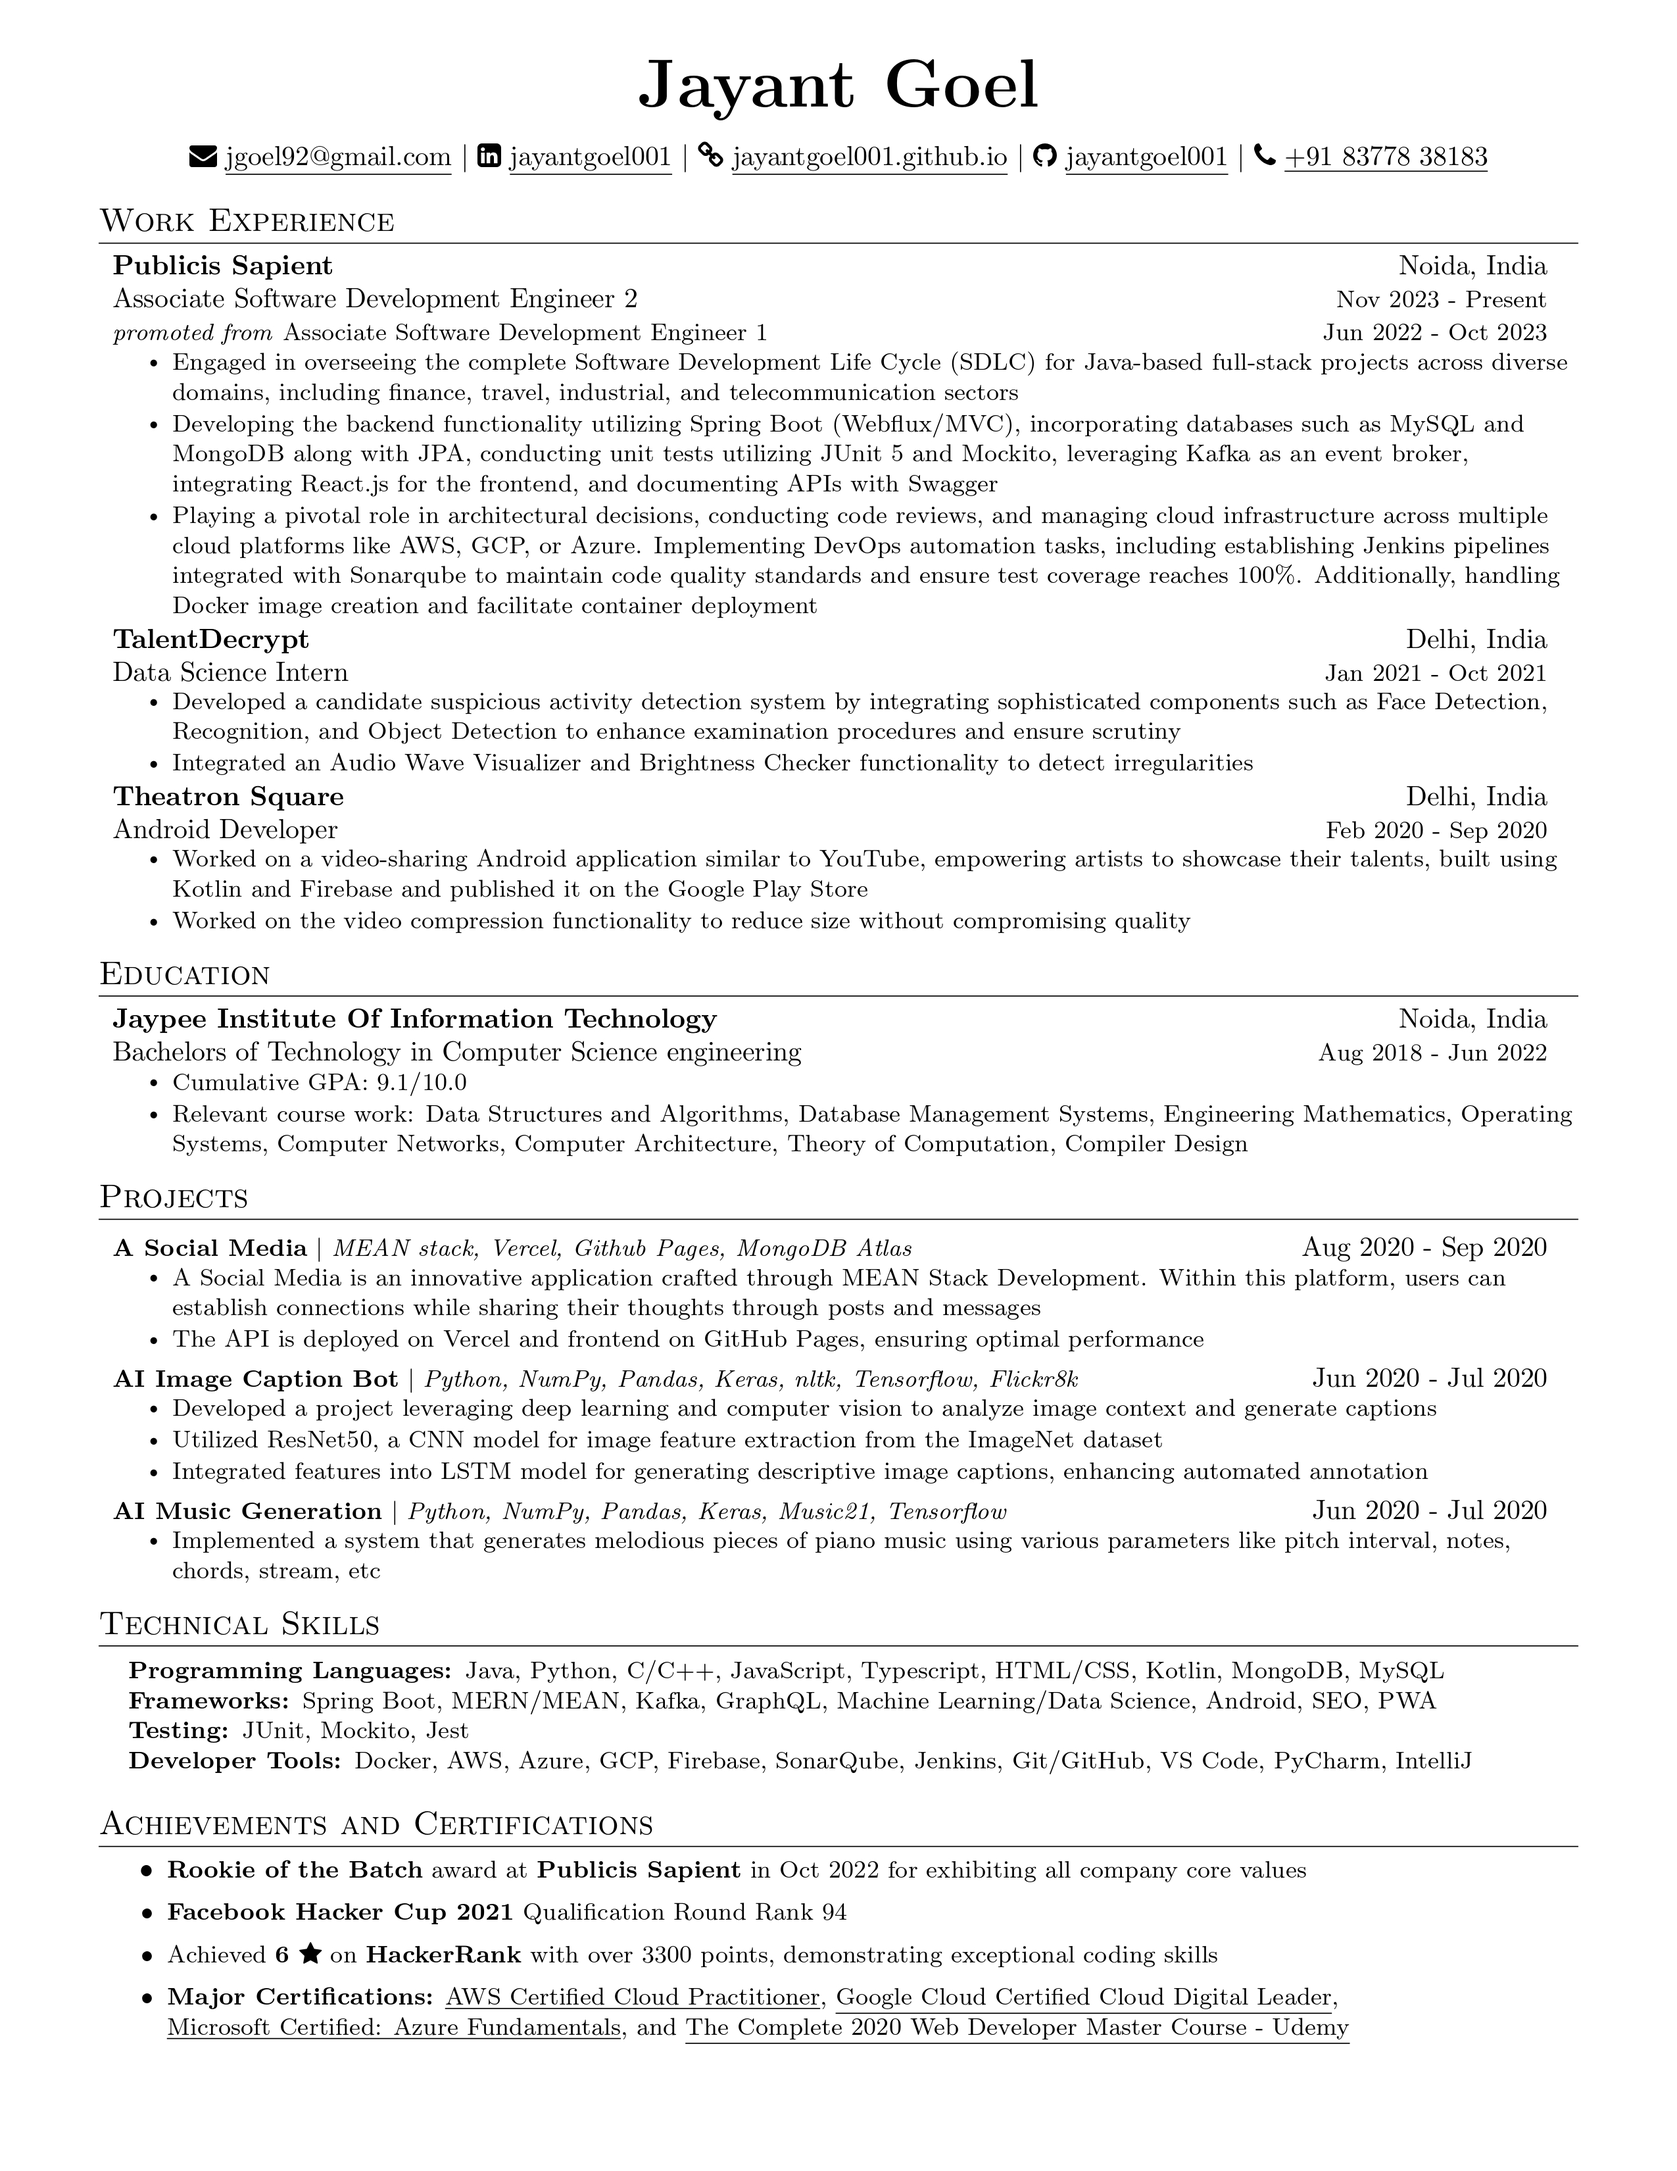
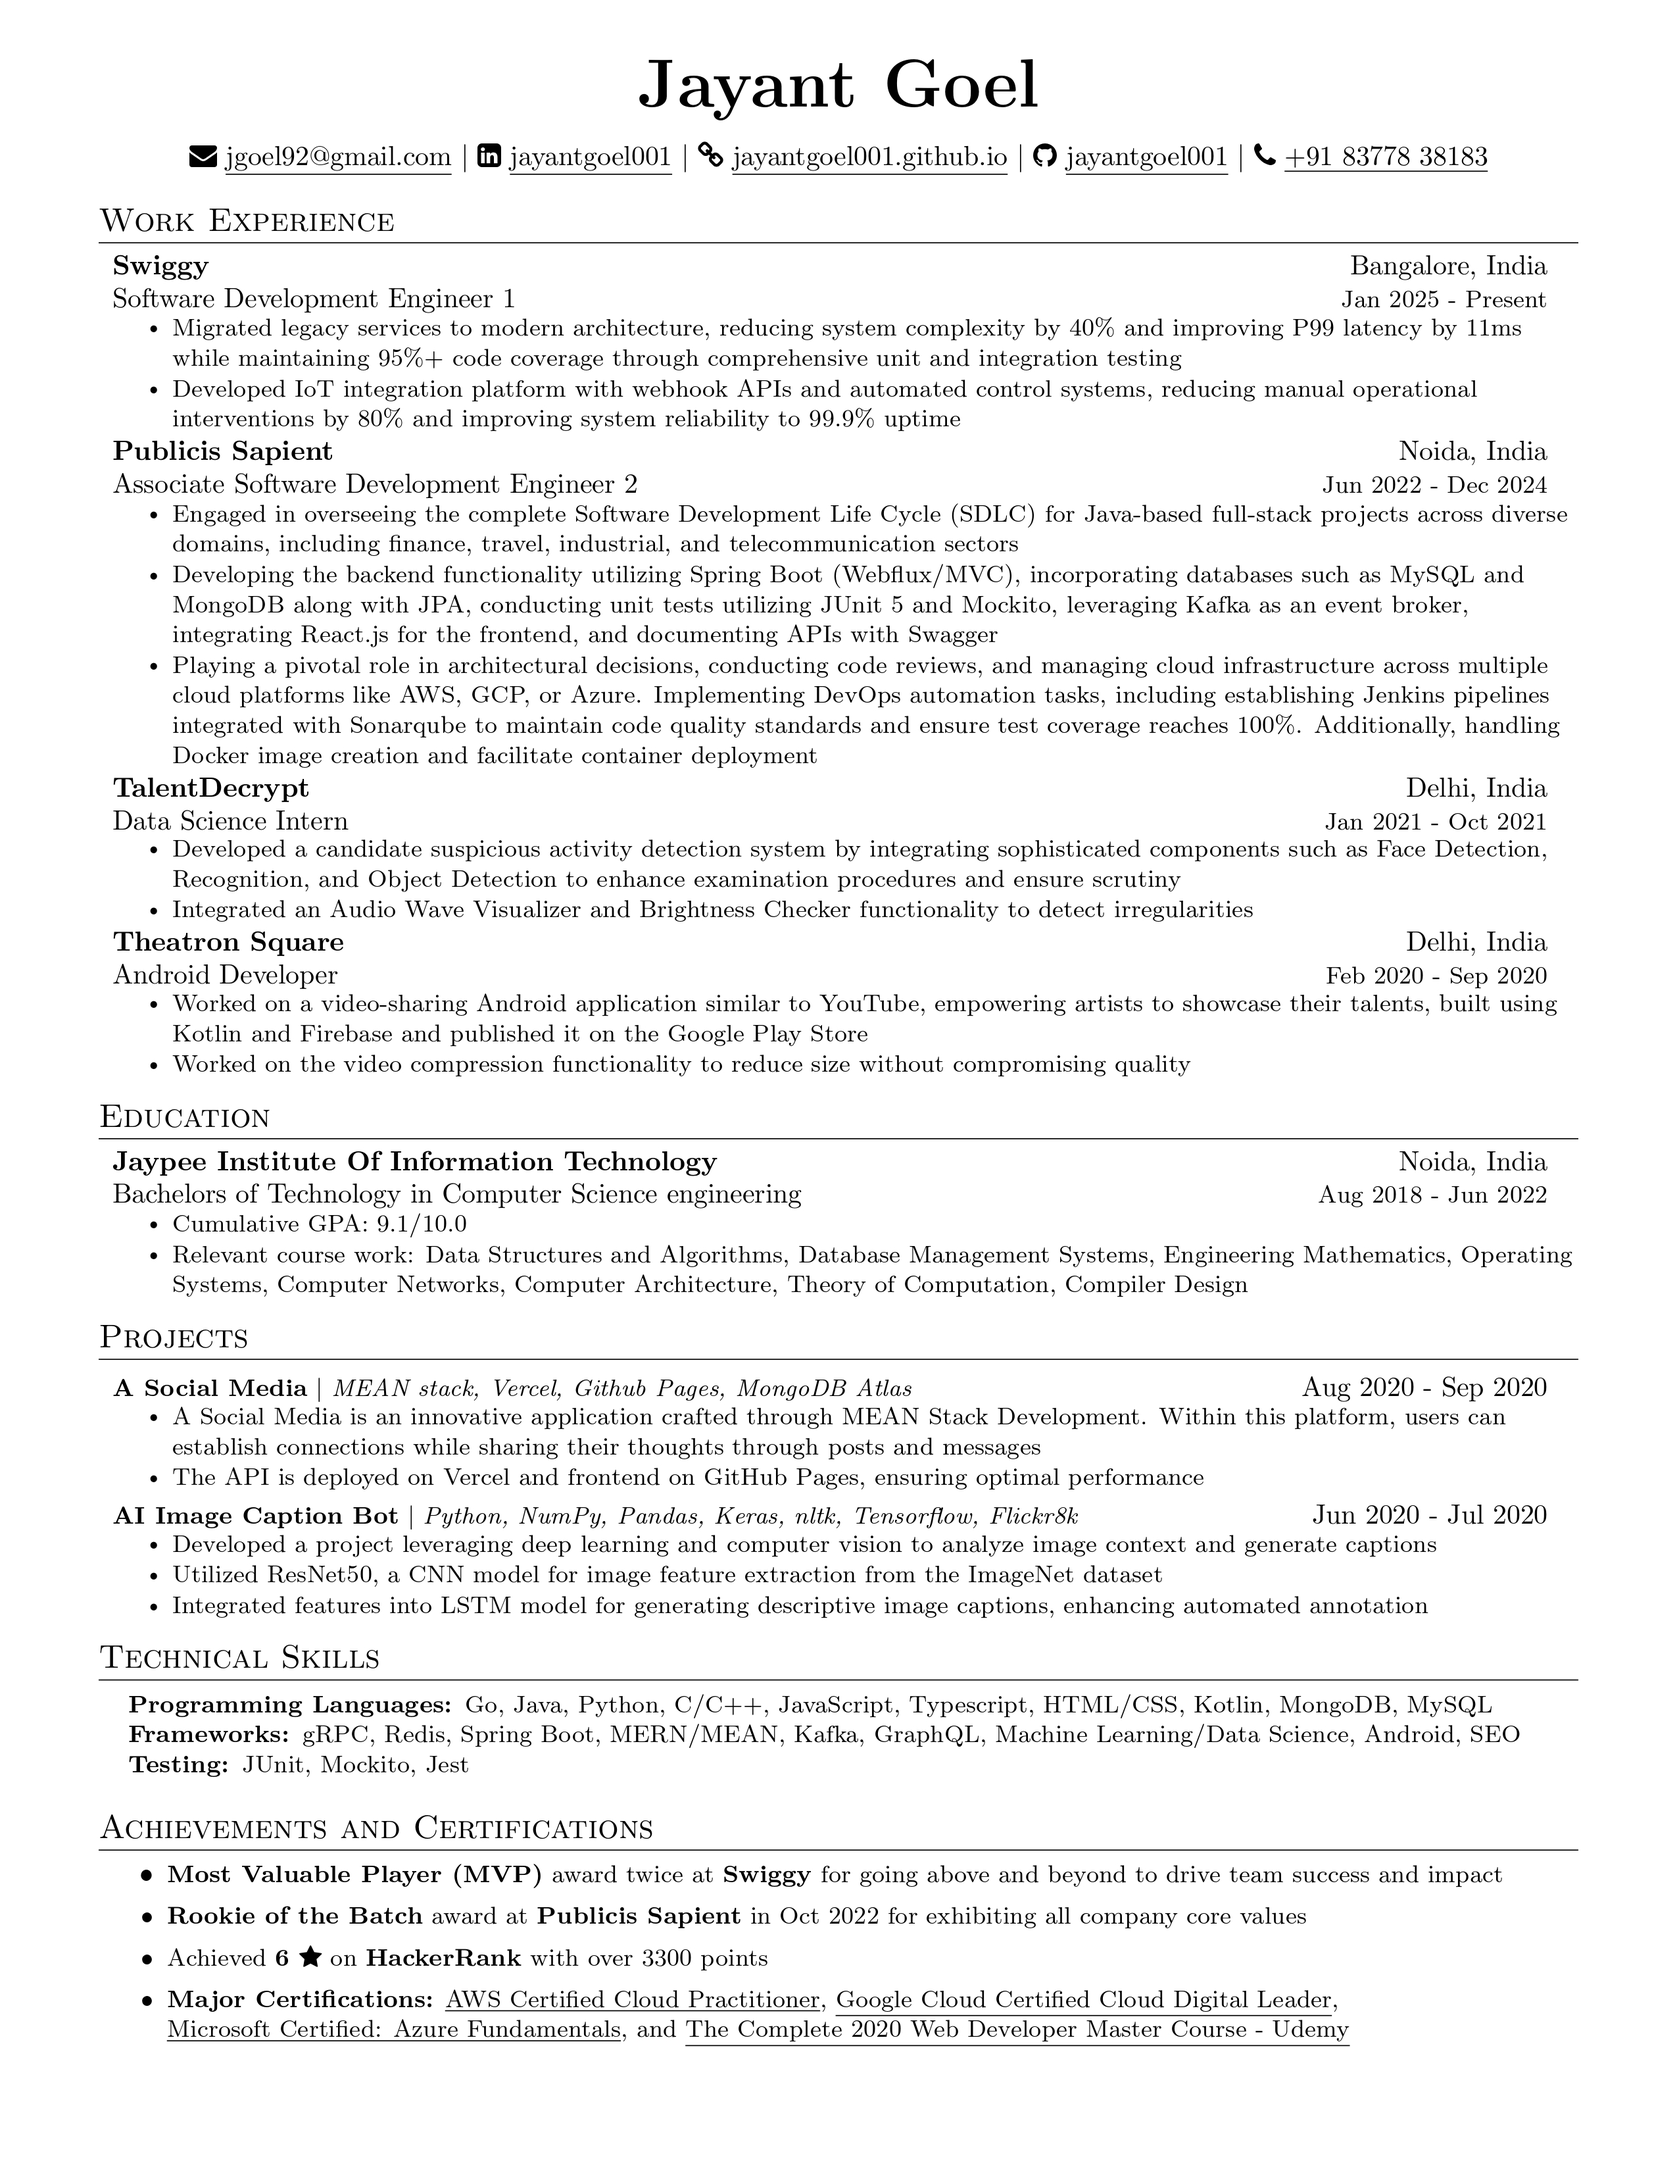
Added Swiggy

Changed region(s): [[0.062, 0.0936, 0.9294, 0.9364], [0.7745, 0.437, 0.9294, 0.4994]]

diff --git a/resume.tex b/resume.tex
@@ -1,6 +1,6 @@
 %-------------------------
 % Resume in Latex
-% Author : Jayant Goel
+% Author: Jayant Goel
 % License: Apache-2.0 license
 %------------------------
 \documentclass[letterpaper,13pt]{article}
@@ -56,7 +56,7 @@
   \vspace{-4.25pt}\scshape\raggedright\large
 }{}{0em}{}[\color{black}\titlerule \vspace{-5pt}]
 
-% Ensure that generated pdf is machine readable/ATS parsable
+% Ensure that the generated PDF is machine-readable/ATS parsable
 \pdfgentounicode=1
 
 %-------------------------
@@ -65,14 +65,6 @@
   \item\small{
     {#1 \vspace{-2pt}}
   }
-}
-\newcommand{\resumeMultiplePositionSubheading}[6]{
-  \vspace{-2pt}\item
-    \begin{tabular*}{0.97\textwidth}[t]{l@{\extracolsep{\fill}}r}
-      \textbf{#1} & #2 \\
-       #3 & \small{#4} \\
-      \small{\textit{promoted from} #5} & \small #6 \\
-    \end{tabular*}\vspace{-7pt}
 }
 \newcommand{\resumeSubheading}[4]{
   \vspace{-2pt}\item
@@ -115,10 +107,16 @@
 %-----------EXPERIENCE-----------
 \section{Work Experience}
   \begin{itemize}[leftmargin=*, label={}]
-    \resumeMultiplePositionSubheading
+    \resumeSubheading
+      {\href{https://www.swiggy.com/}{Swiggy}}{Bangalore, India}
+      {Software Development Engineer 1}{Jan 2025 - Present}
+      \resumeItemListStart
+        \resumeItem{Migrated legacy services to modern architecture, reducing system complexity by 40\% and improving P99 latency by 11ms while maintaining 95\%+ code coverage through comprehensive unit and integration testing}
+        \resumeItem{Developed IoT integration platform with webhook APIs and automated control systems, reducing manual operational interventions by 80\% and improving system reliability to 99.9\% uptime}
+      \resumeItemListEnd
+    \resumeSubheading
       {\href{https://www.publicissapient.com/}{Publicis Sapient}}{Noida, India}
-      {Associate Software Development Engineer 2}{Nov 2023 - Present}
-      {Associate Software Development Engineer 1}{Jun 2022 - Oct 2023}
+      {Associate Software Development Engineer 2}{Jun 2022 - Dec 2024}
       \resumeItemListStart
         \resumeItem{Engaged in overseeing the complete Software Development Life Cycle (SDLC) for Java-based full-stack projects across diverse domains, including finance, travel, industrial, and telecommunication sectors}
         \resumeItem{Developing the backend functionality utilizing Spring Boot (Webflux/MVC), incorporating databases such as MySQL and MongoDB along with JPA, conducting unit tests utilizing JUnit 5 and Mockito, leveraging Kafka as an event broker, integrating React.js for the frontend, and documenting APIs with Swagger}
@@ -167,29 +165,24 @@
             \resumeItem{Utilized ResNet50, a CNN model for image feature extraction from the ImageNet dataset}
             \resumeItem{Integrated features into LSTM model for generating descriptive image captions, enhancing automated annotation}
           \resumeItemListEnd
-      \resumeProjectHeading
-          {\href{https://github.com/JayantGoel001/AI-Music-Generation}{\textbf{AI Music Generation}} $|$ \emph{Python, NumPy, Pandas, Keras, Music21, Tensorflow}}{Jun 2020 - Jul 2020}
-          \resumeItemListStart
-            \resumeItem{Implemented a system that generates melodious pieces of piano music using various parameters like pitch interval, notes, chords, stream, etc}
-          \resumeItemListEnd
     \end{itemize}
 
 %-----------PROGRAMMING SKILLS-----------
 \section{Technical Skills}
  \begin{itemize}[leftmargin=0.15in, label={}]
     \small{\item{
-     \textbf{Programming Languages: }{Java, Python, C/C++, JavaScript, Typescript, HTML/CSS, Kotlin, MongoDB, MySQL} \\
-     \textbf{Frameworks: }{Spring Boot, MERN/MEAN, Kafka, GraphQL, Machine Learning/Data Science, Android, SEO, PWA} \\
-     \textbf{Testing: }{JUnit, Mockito, Jest} \\
-     \textbf{Developer Tools: }{Docker, AWS, Azure, GCP, Firebase, SonarQube, Jenkins, Git/GitHub, VS Code, PyCharm, IntelliJ}
+     \textbf{Programming Languages: }{Go, Java, Python, C/C++, JavaScript, Typescript, HTML/CSS, Kotlin, MongoDB, MySQL} \\
+     \textbf{Frameworks: }{gRPC, Redis, Spring Boot, MERN/MEAN, Kafka, GraphQL, Machine Learning/Data Science, Android, SEO} \\
+     \textbf{Testing: }{JUnit, Mockito, Jest}
     }}
  \end{itemize}
 
 %------ACHIEVEMENTS AND RECOGNITIONS--------
 \section{Achievements and Certifications}
-  \resumeItemListStart      \resumeItem{\href{https://drive.google.com/file/d/1U9yLcTbFNVLfGm9tHbY7JiOYqgzFtAvm/view?usp=drive_link&usp=embed_facebook}{\textbf{Rookie of the Batch}} award at \textbf{Publicis Sapient} in Oct 2022 for exhibiting all company core values}
-  \resumeItem{\href{https://www.facebook.com/codingcompetitions/hacker-cup/2021/certificate/530301721540794}{\textbf{Facebook Hacker Cup 2021}} Qualification Round Rank 94}
-  \resumeItem{Achieved \textbf{6 \faStar} on \href{https://www.hackerrank.com/profile/JayantGoel001}{\textbf{HackerRank}} with over 3300 points, demonstrating exceptional coding skills}
+  \resumeItemListStart      
+\resumeItem{\href{https://drive.google.com/file/d/16kl63FbmVBjhNibiJ1LzKRyyKQI73X5e/view?usp=sharing}{\textbf{Most Valuable Player (MVP)}} award twice at \textbf{Swiggy} for going above and beyond to drive team success and impact}
+\resumeItem{\href{https://drive.google.com/file/d/1U9yLcTbFNVLfGm9tHbY7JiOYqgzFtAvm/view?usp=drive_link&usp=embed_facebook}{\textbf{Rookie of the Batch}} award at \textbf{Publicis Sapient} in Oct 2022 for exhibiting all company core values}
+  \resumeItem{Achieved \textbf{6 \faStar} on \href{https://www.hackerrank.com/profile/JayantGoel001}{\textbf{HackerRank}} with over 3300 points}
   \resumeItem{\textbf{Major Certifications:} \href{https://drive.google.com/file/d/15qgH3MU0gf9ww9uZuMcu4e2ezFcTaZK1/view?usp=drive_link}{\underline{AWS Certified Cloud Practitioner}}, \href{https://drive.google.com/file/d/1gxAfbcVD6_U8mtxzcrPHf1gZmZ5Z20xh/view?usp=drive_link}{\underline{Google Cloud Certified Cloud Digital Leader}}, \href{https://drive.google.com/file/d/1_ghen3KbDJKEgsdudfGRUg77y8ytYC3L/view?usp=drive_link}{\underline{Microsoft Certified: Azure Fundamentals}}, and
       \href{https://drive.google.com/file/d/12THg9_3-KtjSRe7pLfw27_pqwkDtSQMx/view?usp=drive_link}{\underline{The Complete 2020 Web Developer Master Course - Udemy}}
       }
